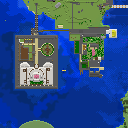
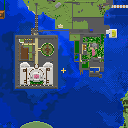
マップ更新

diff --git a/index.html b/index.html
@@ -49,7 +49,7 @@
 
   <script src="https://unpkg.com/leaflet/dist/leaflet.js"></script>
   <script>
-    const VERSION = "?ver=1.4"
+    const VERSION = "?ver=1.5"
 
     // タイルのサイズを監視して安全に +1px する
     function watchTileSize(tile) {
@@ -119,7 +119,7 @@
       [-1, -2], [-1, -1], [-1, 0], [-1, 1], [-1, 2],[-1,3],
       [0, -2], [0, -1], [0, 0], [0, 1], [0, 2],[0, 3],
       [1, -7], [1, -6], [1, -5], [1, -4], [1, -3], [1, -2], [1, -1], [1, 0], [1, 1], [1, 2], [1, 3],
-      [2, -6], [2, 0], [2, 1],
+      [2, -6], [2, 0], [2, 1],[2,3],
       [3, -1], [3, 0]
     ]
     function _putMap(y, x, map) {
@@ -682,7 +682,7 @@
     putMarker(
       700, 1180,
       {
-        title: "ハムナプトラ2 黄金のピラミッド",
+        title: "ハンもザハウス",
         explane: "制作者: ハンもザ",
         image: "images/piramiddo.jpeg"
       },
@@ -707,7 +707,7 @@
       map
     );
     putMarker(
-      470, 1450,
+      470, 1420,
       {
         title: "あかみサンダーマウンテン",
         explane: "座標: 1681 72 716\n制作者: あかみ",
@@ -748,6 +748,87 @@
         title: "おしろ",
         explane: "制作者 : 月玉",
         image: "images/shiro.jpeg"
+      },
+      map
+    );
+    putMarker(
+      500, 950,
+      {
+        title: "マセイモ地蔵、仏像、KIURI像",
+        explane: "制作者 : ドグワン",
+        image: "images/jizou.jpeg"
+      },
+      map
+    );
+    putMarker(
+      450, 1000,
+      {
+        title: "銅閣寺",
+        explane: "制作者 : ドグワン(予想)",
+        image: "images/doukaku.jpeg"
+      },
+      map
+    );
+    putMarker(
+      1070, 1640,
+      {
+        title: "エロマンガ島",
+        explane: "制作者 : ハンもザ(予想)",
+        image: "images/manga.jpeg"
+      },
+      map
+    );
+    putMarker(
+      1400, 1620,
+      {
+        title: "回転寿司にしようと思い建てたは良いけど失敗したのであえなく村人を流すだけのクソ施設になりました無念",
+        explane: "制作者不明",
+        image: "images/kaiten.jpeg"
+      },
+      map
+    );
+    putMarker(
+      450, 1730,
+      {
+        title: "あかみクラブ",
+        explane: "制作者 : あかみ",
+        image: "images/akamikurabu.jpeg"
+      },
+      map
+    );
+    putMarker(
+      480, 1470,
+      {
+        title: "なにか",
+        explane: "制作者 : あかみ(予想)",
+        image: "images/nanika.jpeg"
+      },
+      map
+    );
+    putMarker(
+      520, 1470,
+      {
+        title: "建設中の迷路っぽいもの",
+        explane: "制作者 : あかみ(予想)",
+        image: "images/maze.jpeg"
+      },
+      map
+    );
+    putMarker(
+      370, 1280,
+      {
+        title: "パンプ金太郎",
+        explane: "制作者 : ドグワン",
+        image: "images/panpu.jpeg"
+      },
+      map
+    );
+    putMarker(
+      -100, -380,
+      {
+        title: "忍者屋敷(建築中)",
+        explane: "制作者 : 塩ポテト君",
+        image: "images/ninja.jpeg"
       },
       map
     );
@@ -862,12 +943,30 @@
         [450, 1150],
         [450, 1210],
         [375, 1210],
-        [375, 1265],
-        [290, 1265],
-        [290, 1290]
+        [375, 1300]
       ],
       'ドグワン線',
       '#ffaa00'
+    );
+
+    drawRailway(
+      [
+        [490, 1200],
+        [490, 1285],
+        [375, 1285]
+      ],
+      'あかみ線',
+      '#ff0000'
+    );
+
+    drawRailway(
+      [
+        [540, 850],
+        [540, 1040],
+        [660, 1040]
+      ],
+      'ハンもザ線',
+      '#00ff00'
     );
 
     function drawStation(point, name, cssClass, railwayLayer) {
@@ -903,7 +1002,9 @@
 
     drawStation([942, 750], '拠点前駅', 'icon6', railwayLayer);
 
-    drawStation([290, 1290], 'アウターヘブン駅', 'icon7', railwayLayer);
+    drawStation([375, 1300], 'アウターヘブン駅', 'icon7', railwayLayer);
+
+    drawStation([660, 1040], "ハンモザ駅","icon8",railwayLayer);
 
     railwayLayer.addTo(map)
   </script>
@@ -974,6 +1075,14 @@
       border: 3px solid #fdfdfd;
       box-shadow: 1px 1px 4px rgba(0, 0, 0, 0.8);
       background-color: rgb(255, 174, 0);
+    }
+    .icon8 {
+      width: 20px !important;
+      height: 20px !important;
+      border-radius: 10px;
+      border: 3px solid #fdfdfd;
+      box-shadow: 1px 1px 4px rgba(0, 0, 0, 0.8);
+      background-color: rgb(0, 255, 0);
     }
 
     .leaflet-image-layer {
